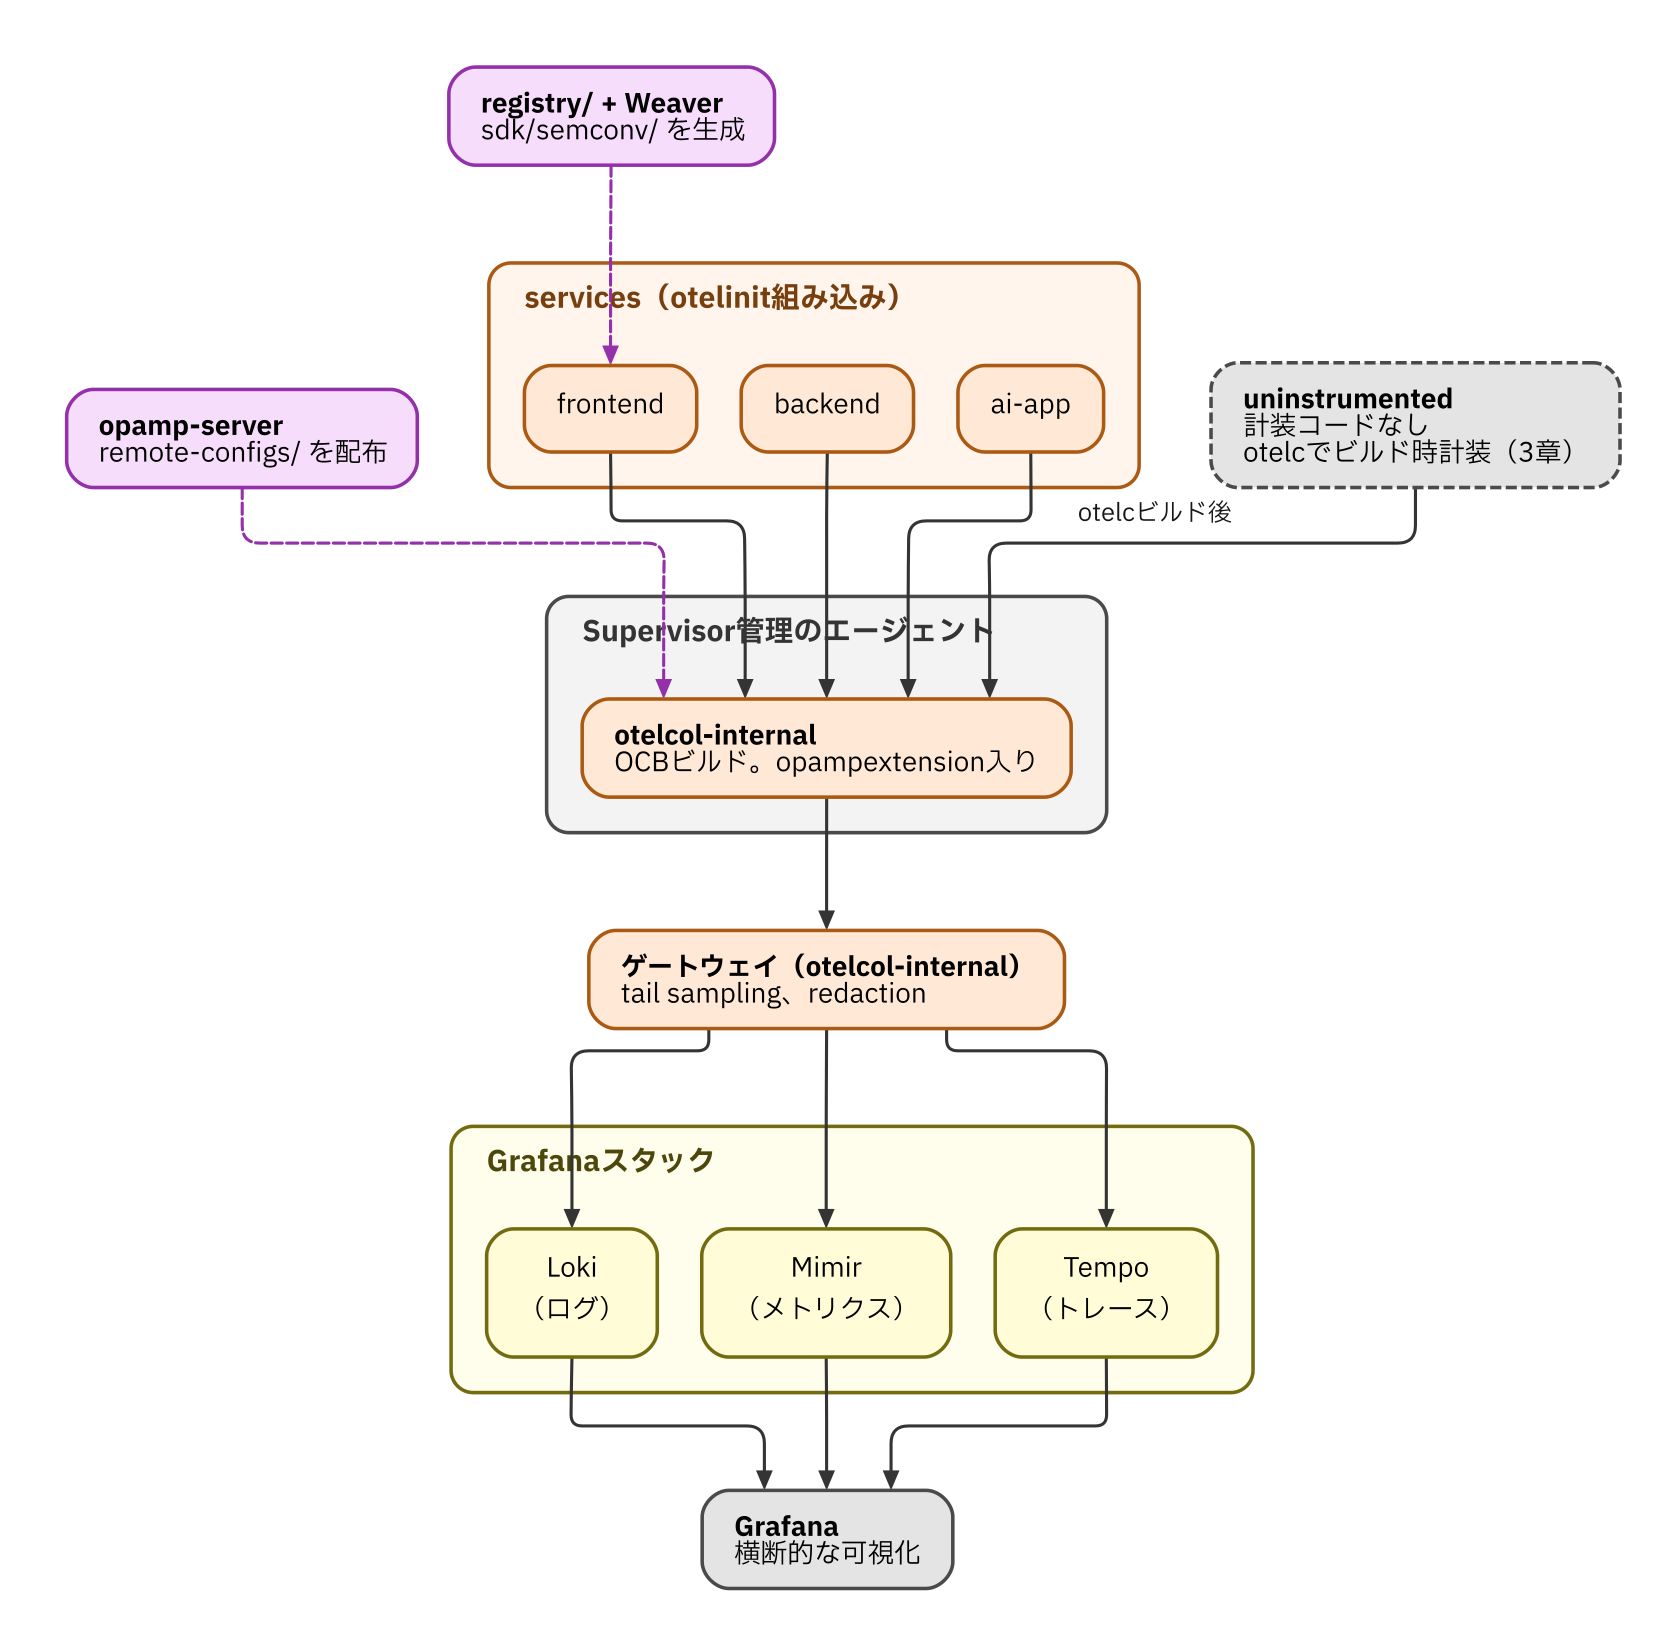
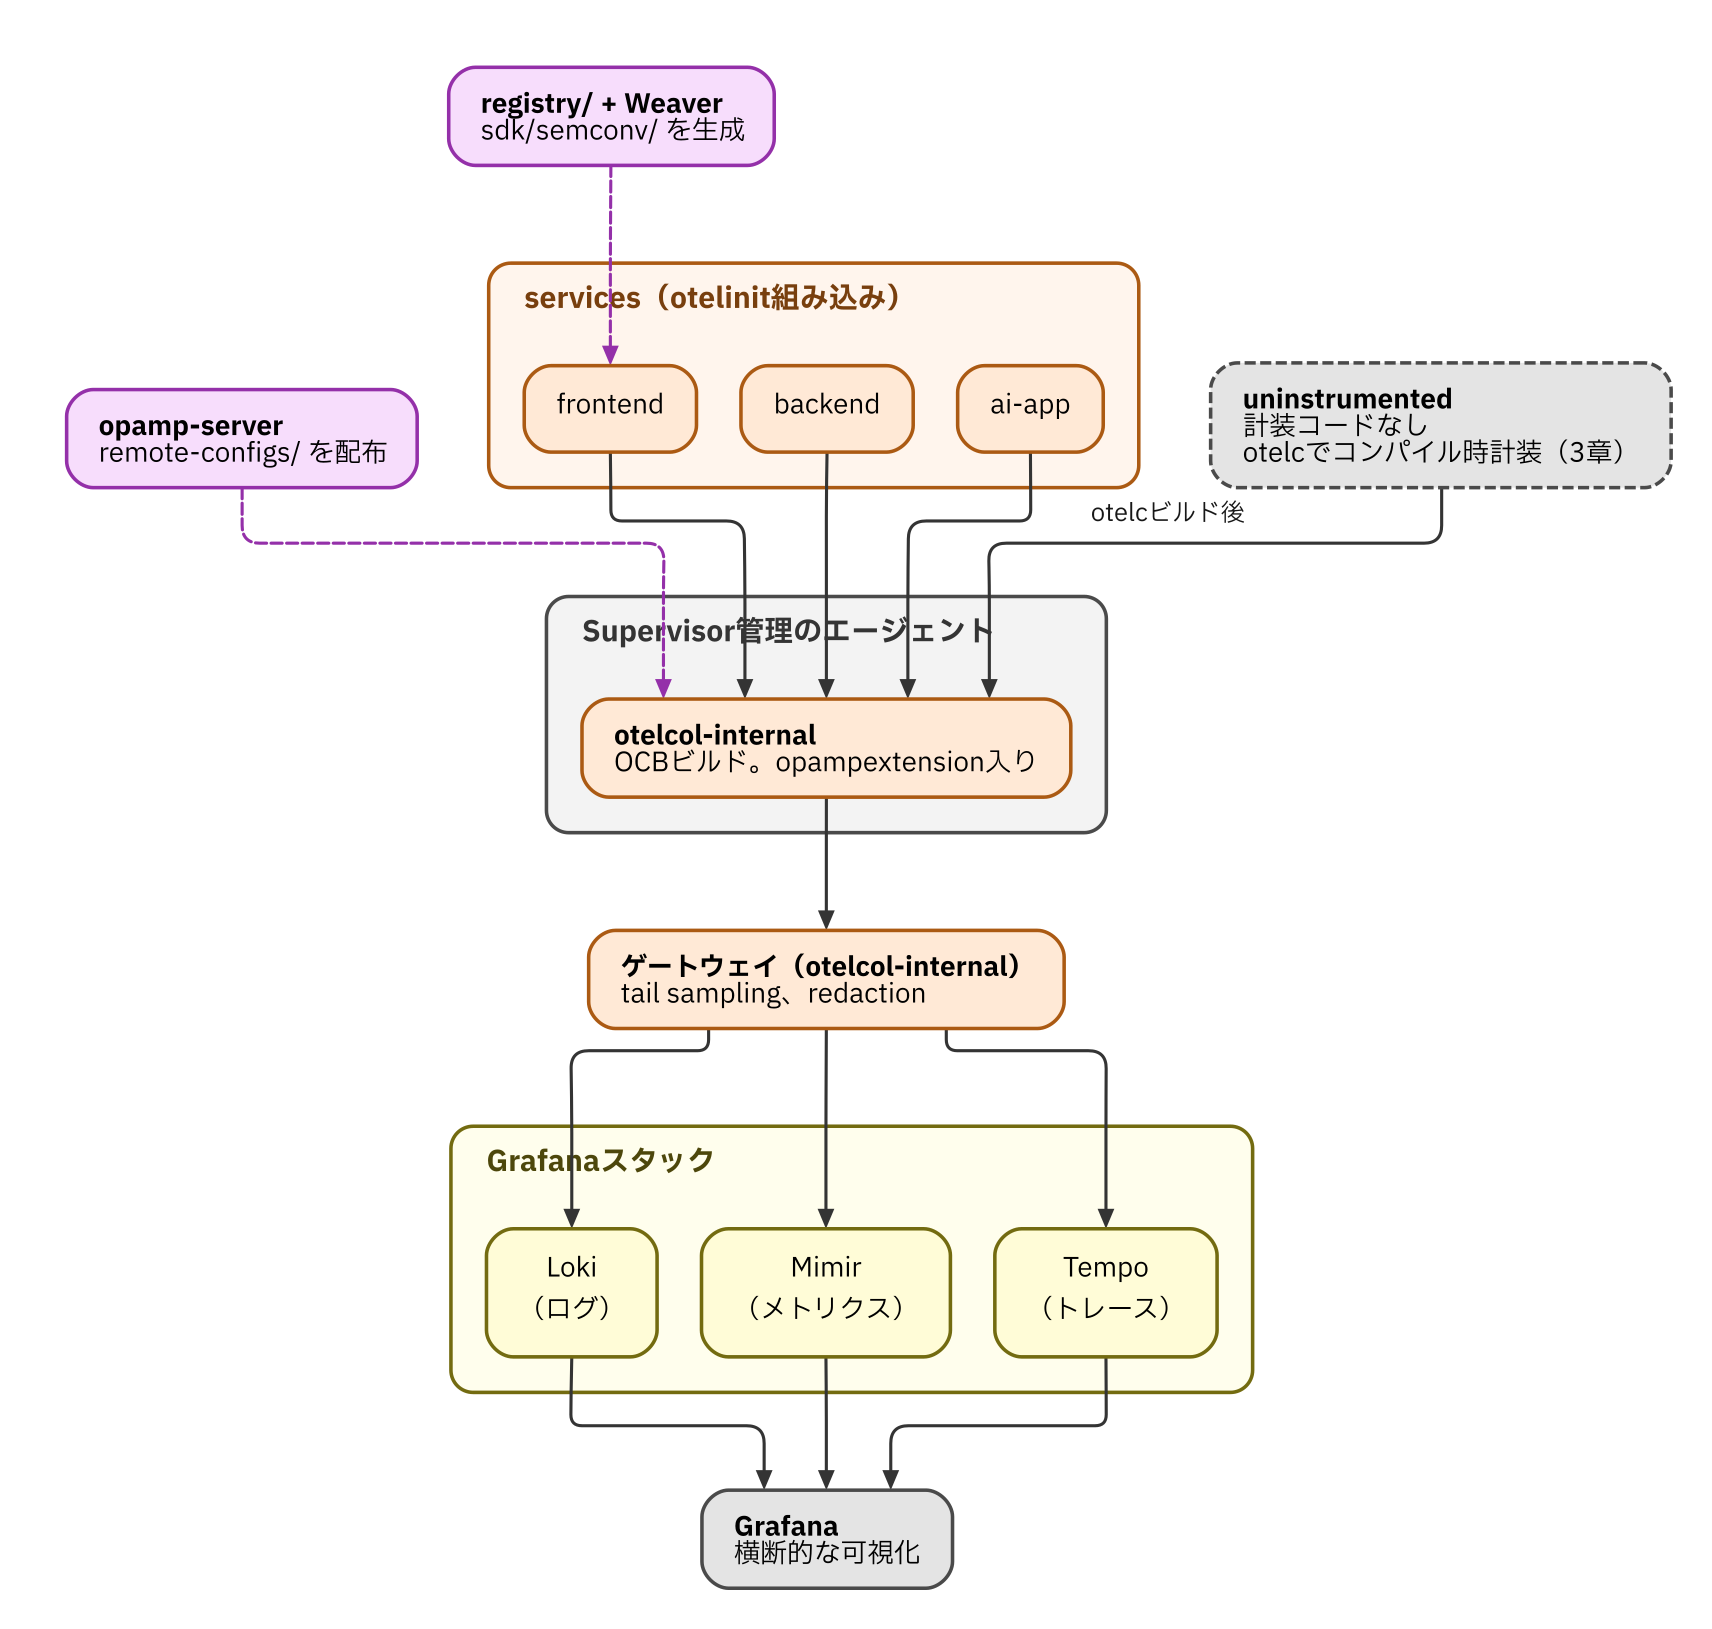
style(otel-platform): 3章レビューの指摘5点を反映する
- 図1の箱の大きさを揃えて整列させた。左列（処理の段階）と右列（計装の
  方式）でそれぞれ width/height を固定し、矢印の長さで差を吸収する
- ビルド時計装 -> コンパイル時計装（otelcの正式名に揃える）。本文と図の
  両方を直した
- 「OpenTelemetry eBPF Instrumentationの舞台裏」にリンクを張り、公開後に
  入れる旨のTODOコメントを削除した
- trace context -> トレースコンテキスト、annotation -> アノテーション。
  図の中も直した（YAMLキーの annotations: は保持）
- 「基盤は〜」を主体が分かる書き方にした。3章の手動計装への段階設計と、
  7章のプロンプト記録の2箇所。どこまで記録するかを中央が決めるのではなく
  開発チームが選べる、という趣旨を明示した

diff --git a/books/observability-platform-with-otel/99-references.md b/books/observability-platform-with-otel/99-references.md
@@ -25,9 +25,9 @@ title: "参考リンク"
 
 - [Zero-code instrumentation](https://opentelemetry.io/ja/docs/zero-code/)
 - [OBI（OpenTelemetry eBPF Instrumentation）](https://opentelemetry.io/ja/docs/zero-code/obi/) と [2026年の目標を述べた公式ブログ](https://opentelemetry.io/blog/2026/obi-goals/)
-- [otelc v1の発表（Goのビルド時計装）](https://opentelemetry.io/blog/2026/go-compile-time-instrumentation-v1/)
+- [otelc v1の発表（Goのコンパイル時計装）](https://opentelemetry.io/blog/2026/go-compile-time-instrumentation-v1/)
 - [OpenTelemetry OperatorによるKubernetesでの自動計装](https://opentelemetry.io/ja/docs/platforms/kubernetes/operator/automatic/)
-- 「OpenTelemetry eBPF Instrumentationの舞台裏」（自著。GoバイナリへのeBPF計装の制約を扱った本） <!-- 公開後にURLを入れる -->
+- [「OpenTelemetry eBPF Instrumentationの舞台裏」](https://zenn.dev/ymotongpoo/books/go-ebpf-primer)（自著。GoバイナリへのeBPF計装の制約を扱った本）
 
 ## 4章 Collector層
 
